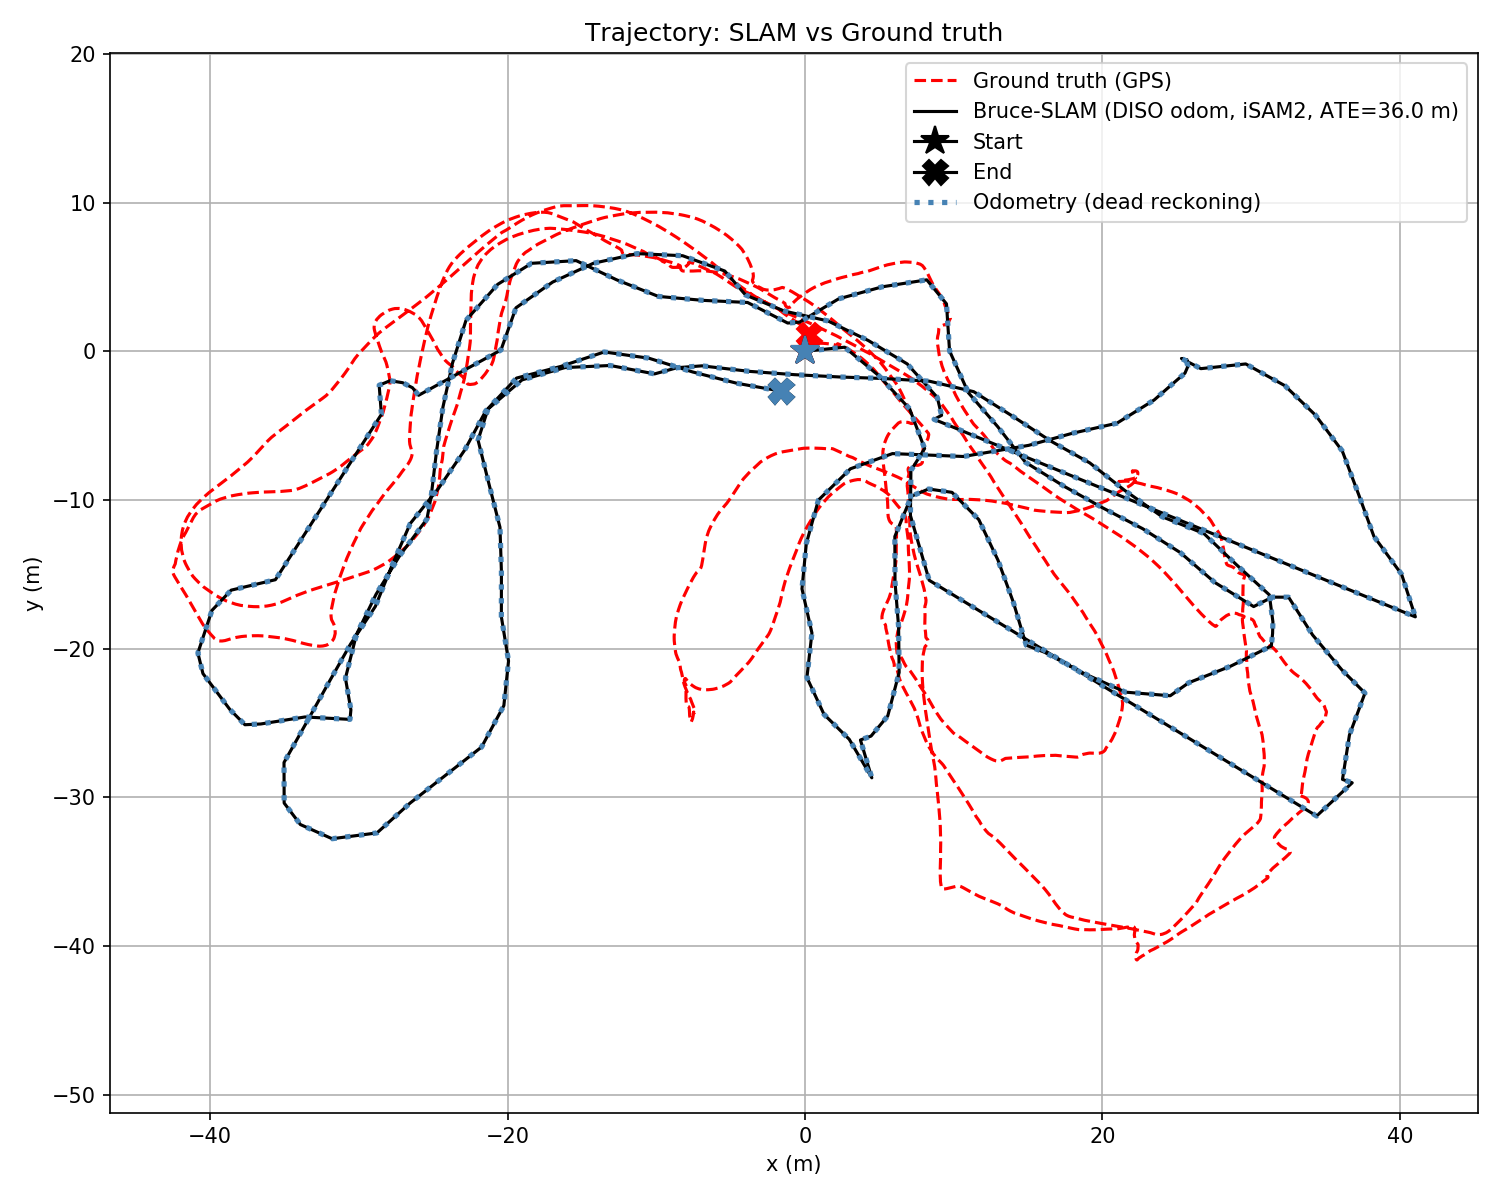
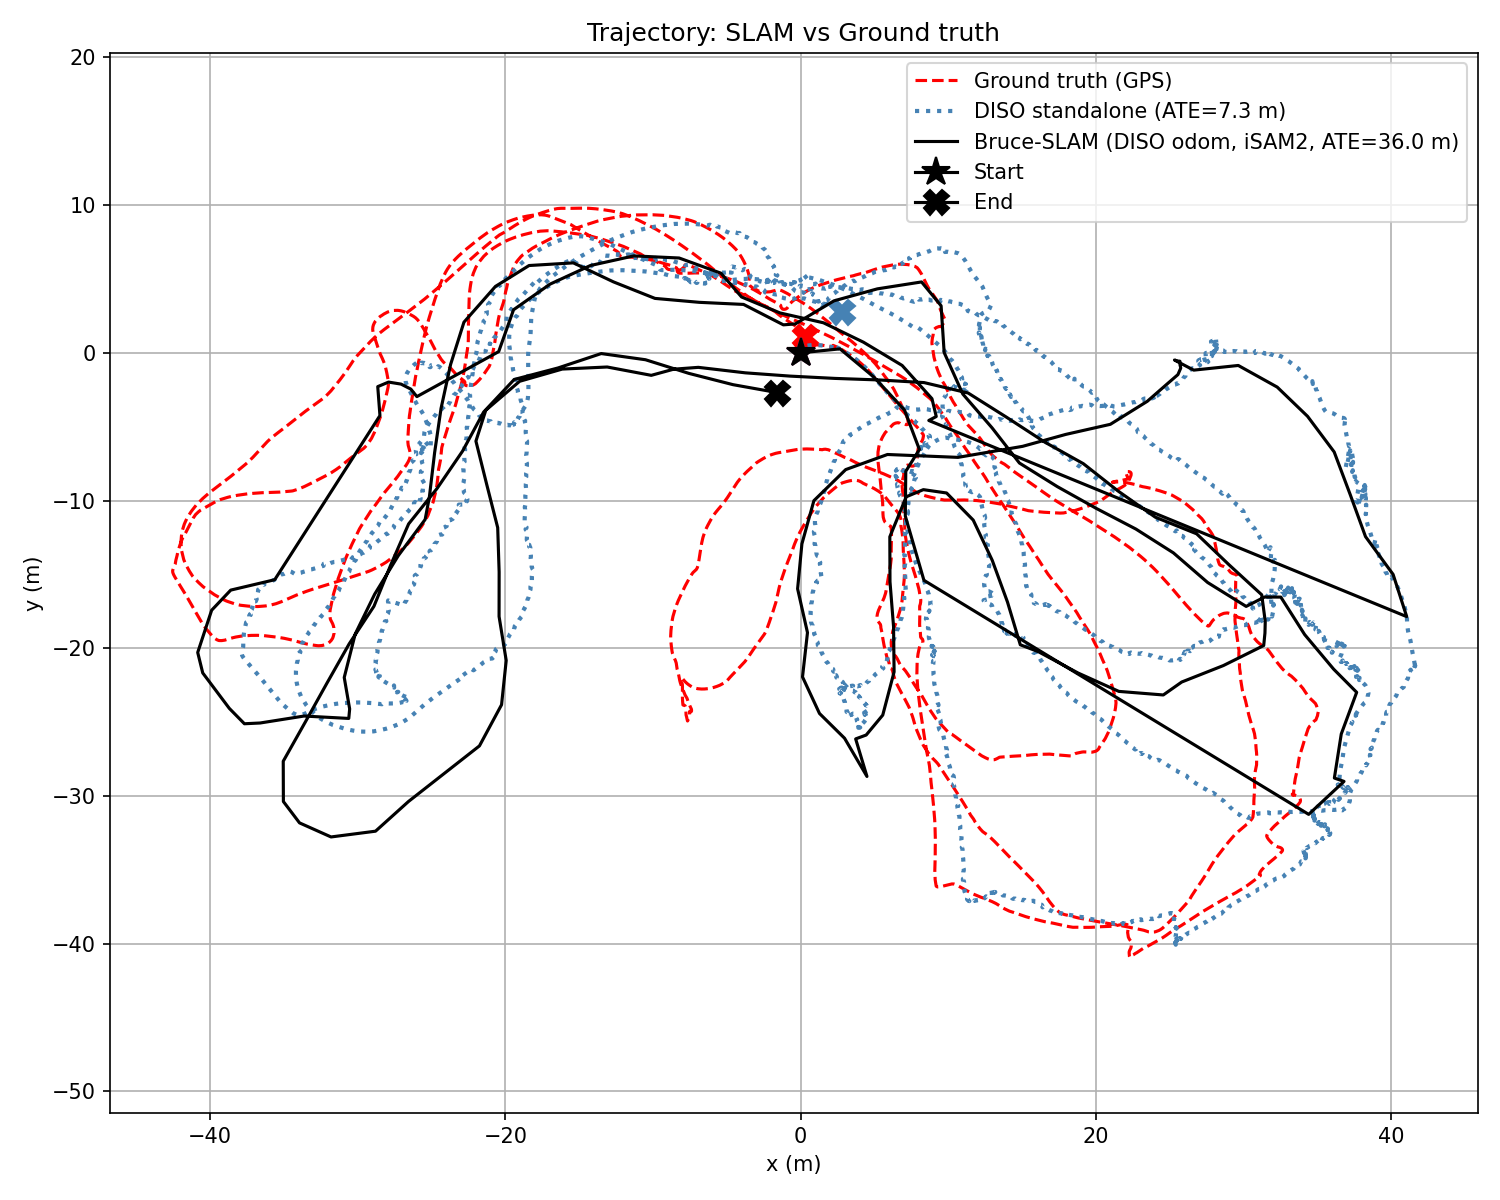
config inital + comparaison GT + DISO standalone + Bruce_SLAM_DISO

diff --git a/analyze_drift.py b/analyze_drift.py
@@ -8,21 +8,18 @@ results_dir = os.environ.get("SLAM_RESULTS_DIR",
 
 traj = pd.read_csv(os.path.join(results_dir, "trajectory.csv"))
 gt_path = os.path.join(results_dir, "groundtruth.csv")
+diso_path = os.path.join(results_dir, "diso_trajectory.csv")
 
 fig, ax = plt.subplots(figsize=(10, 8))
 
 tx, ty = traj["x"].to_numpy(), traj["y"].to_numpy()
-dx, dy = traj["dr_x"].to_numpy(), traj["dr_y"].to_numpy()
 
 if os.path.exists(gt_path):
     gt = pd.read_csv(gt_path)
     gx, gy = gt["x"].to_numpy(), gt["y"].to_numpy()
-    # Align all trajectories to GT start point
     offset_x = gx[0] - tx[0]
     offset_y = gy[0] - (-ty[0])
     tx, ty = tx + offset_x, -ty + offset_y
-    dx, dy = dx + offset_x, -dy + offset_y
-    # ATE: interpolate GT to SLAM keyframe count
     idx = np.round(np.linspace(0, len(gx)-1, len(tx))).astype(int)
     ate = np.sqrt(np.mean((tx - gx[idx])**2 + (ty - gy[idx])**2))
     ax.plot(gx, gy, label="Ground truth (GPS)", color="red", linestyle="--")
@@ -32,14 +29,27 @@ else:
     print("groundtruth.csv not found — run simulation with /pose_gt topic active")
     ate = None
 
+# DISO standalone as odometry reference
+if os.path.exists(diso_path):
+    diso = pd.read_csv(diso_path)
+    ox, oy = diso["x"].to_numpy(), diso["y"].to_numpy()
+    oy = -oy  # flip Y to match frame
+    if os.path.exists(gt_path):
+        ox = ox + (gx[0] - ox[0])
+        oy = oy + (gy[0] - oy[0])
+    idx_d = np.round(np.linspace(0, len(gx)-1, len(ox))).astype(int) if os.path.exists(gt_path) else None
+    ate_diso = np.sqrt(np.mean((ox - gx[idx_d])**2 + (oy - gy[idx_d])**2)) if idx_d is not None else None
+    diso_label = f"DISO standalone (ATE={ate_diso:.1f} m)" if ate_diso is not None else "DISO standalone (odometry)"
+    ax.plot(ox, oy, label=diso_label, color="steelblue", linestyle=":", linewidth=2.0)
+    ax.plot(ox[0], oy[0], marker="*", color="steelblue", markersize=14)
+    ax.plot(ox[-1], oy[-1], marker="X", color="steelblue", markersize=12)
+else:
+    print("diso_trajectory.csv not found")
+
 slam_label = f"Bruce-SLAM (DISO odom, iSAM2, ATE={ate:.1f} m)" if ate is not None else "Bruce-SLAM (DISO odom, iSAM2)"
 ax.plot(tx, ty, label=slam_label, color="black", linewidth=1.5)
 ax.plot(tx[0], ty[0], marker="*", color="black", markersize=14, label="Start")
 ax.plot(tx[-1], ty[-1], marker="X", color="black", markersize=12, label="End")
-# drawn after SLAM so it's visible on top when trajectories overlap
-ax.plot(dx, dy, label="Odometry (dead reckoning)", color="steelblue", linestyle=":", linewidth=2.5)
-ax.plot(dx[0], dy[0], marker="*", color="steelblue", markersize=14)
-ax.plot(dx[-1], dy[-1], marker="X", color="steelblue", markersize=12)
 
 ax.set_xlabel("x (m)")
 ax.set_ylabel("y (m)")